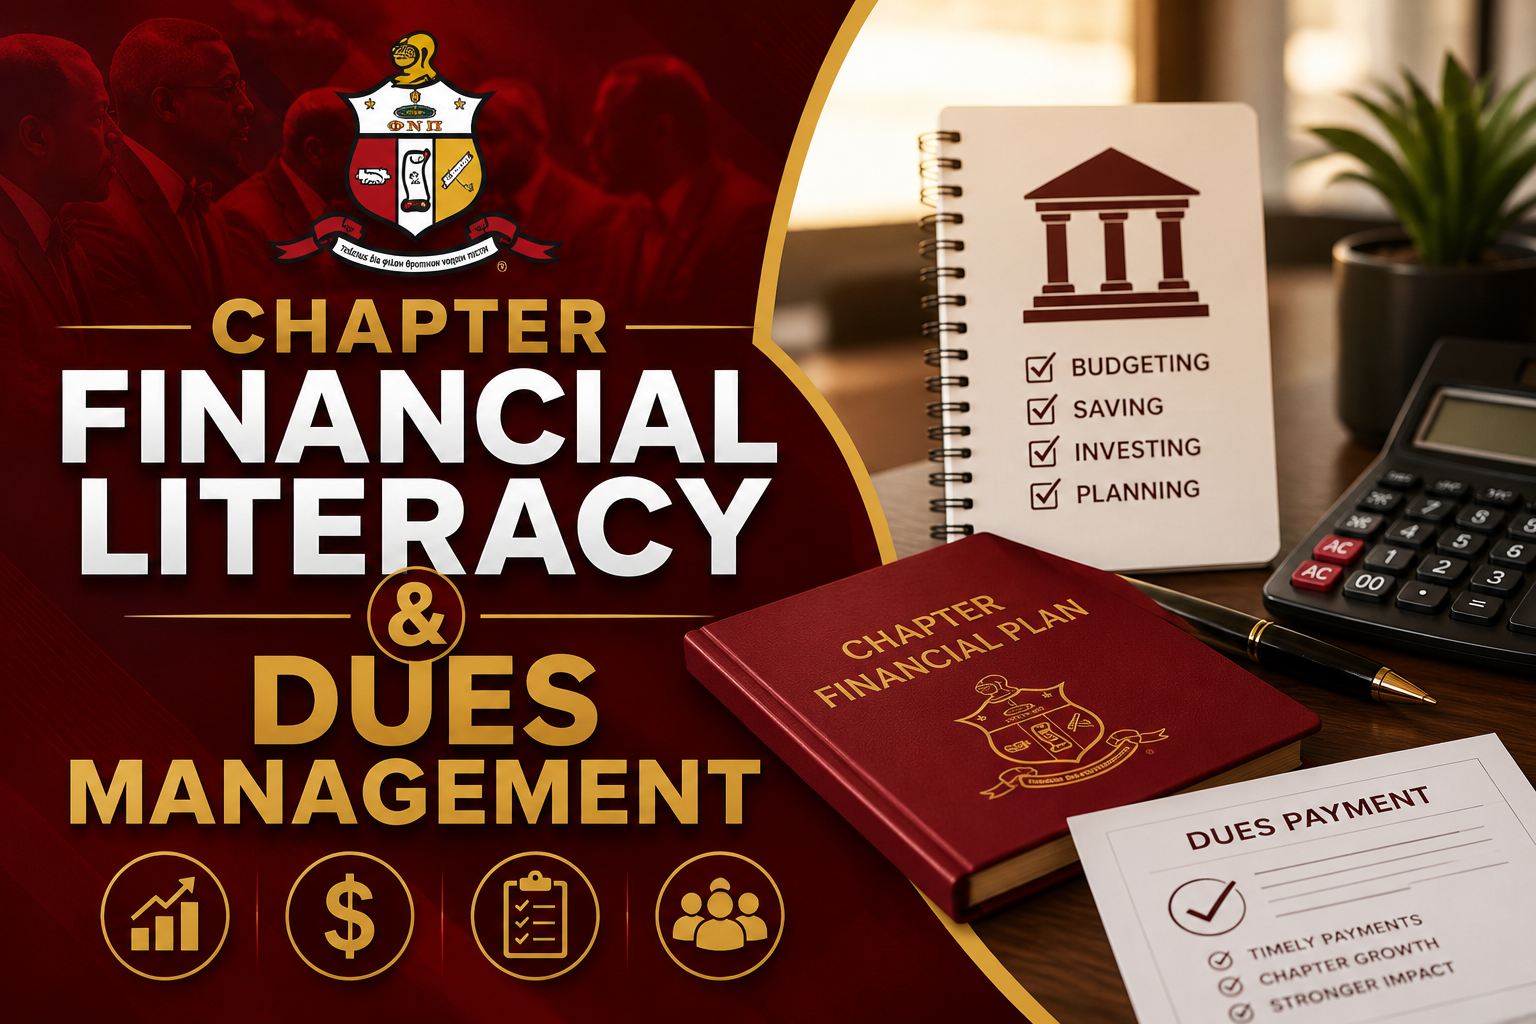
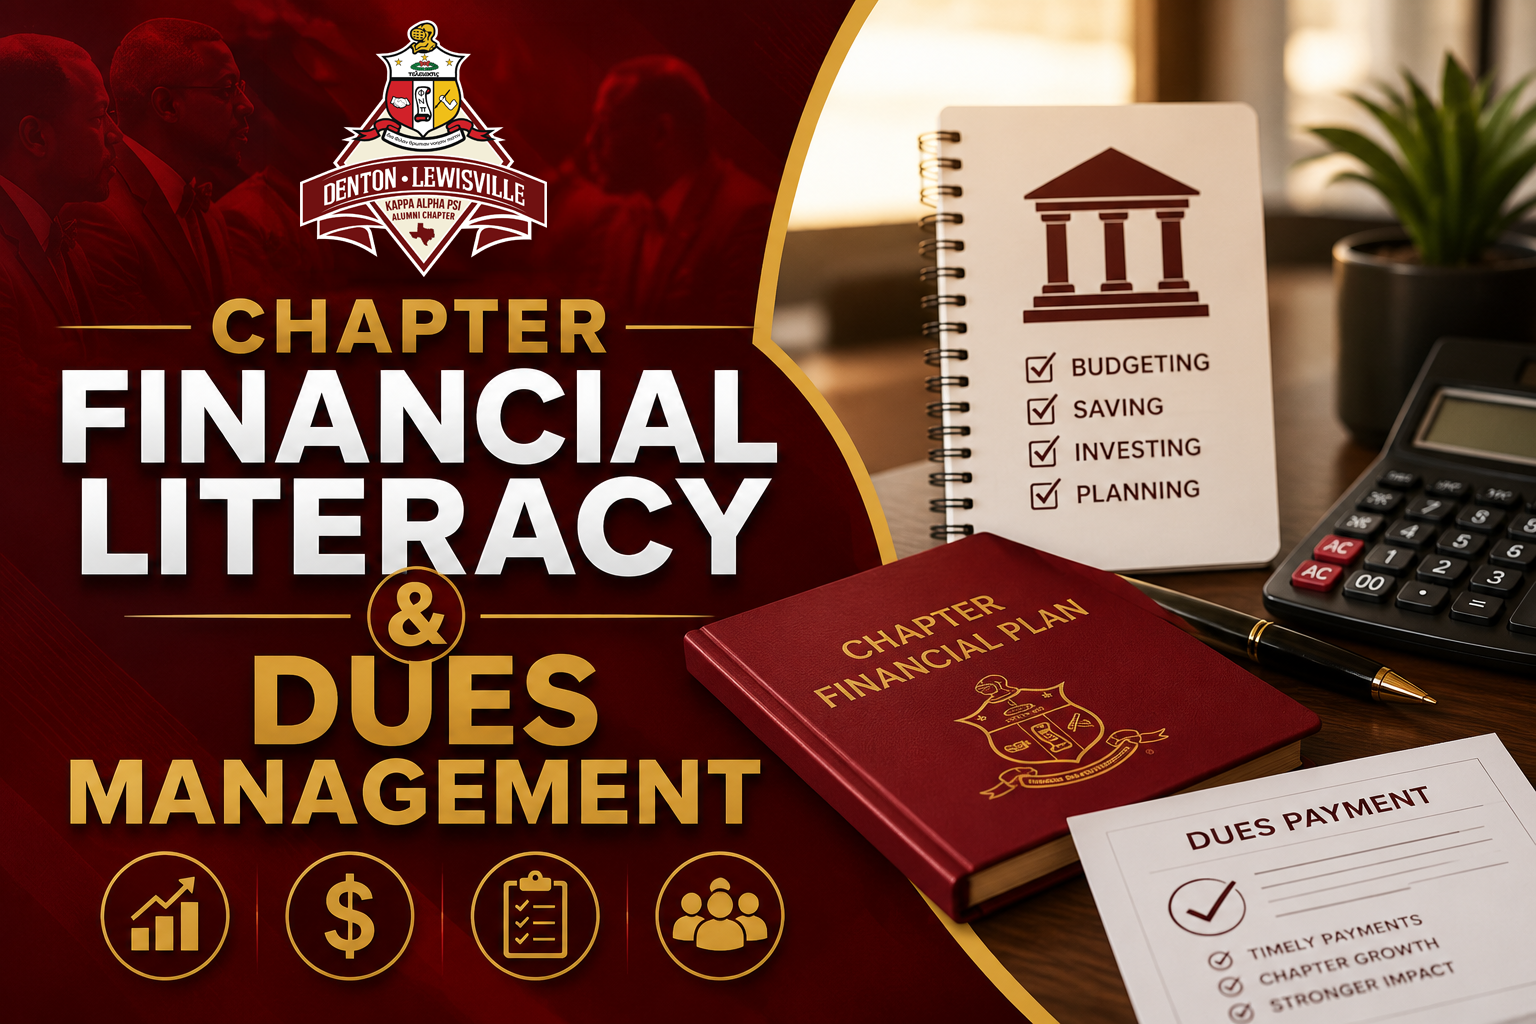
images

Changed region(s): [[0.1562, 0.0, 0.375, 0.2812]]

diff --git a/portal/training.html b/portal/training.html
@@ -374,9 +374,7 @@ body { font-family: 'Archivo', sans-serif; background: #f0ece6; color: #1a1a1a; 
     </div>
     <div class="course-card" data-filter="all">
       <div class="course-thumb">
-        <div class="thumb-icon">
-          <svg viewBox="0 0 24 24" fill="none" stroke="#c69a3f" stroke-width="1.6" stroke-linecap="round" stroke-linejoin="round"><path d="M4 19.5A2.5 2.5 0 0 1 6.5 17H20"/><path d="M6.5 2H20v20H6.5A2.5 2.5 0 0 1 4 19.5v-15A2.5 2.5 0 0 1 6.5 2z"/></svg>
-        </div>
+        <img src="/img/thumbnail_constitution_statutes.png" alt="Understanding the Constitutions and Statutes">
       </div>
       <div class="progress-bar"><div class="progress-fill" style="width:0%"></div></div>
       <div class="course-body">
@@ -388,9 +386,7 @@ body { font-family: 'Archivo', sans-serif; background: #f0ece6; color: #1a1a1a; 
     </div>
     <div class="course-card" data-filter="all">
       <div class="course-thumb">
-        <div class="thumb-icon">
-          <svg viewBox="0 0 24 24" fill="none" stroke="#c69a3f" stroke-width="1.6" stroke-linecap="round" stroke-linejoin="round"><path d="M14 2H6a2 2 0 0 0-2 2v16a2 2 0 0 0 2 2h12a2 2 0 0 0 2-2V8z"/><polyline points="14 2 14 8 20 8"/><line x1="9" y1="13" x2="15" y2="13"/><line x1="9" y1="17" x2="13" y2="17"/></svg>
-        </div>
+        <img src="/img/thumbnail_chapter_bylaws.png" alt="Chapter Bylaws">
       </div>
       <div class="progress-bar"><div class="progress-fill" style="width:0%"></div></div>
       <div class="course-body">
@@ -402,9 +398,7 @@ body { font-family: 'Archivo', sans-serif; background: #f0ece6; color: #1a1a1a; 
     </div>
     <div class="course-card" data-filter="all">
       <div class="course-thumb">
-        <div class="thumb-icon">
-          <svg viewBox="0 0 24 24" fill="none" stroke="#c69a3f" stroke-width="1.6" stroke-linecap="round" stroke-linejoin="round"><rect x="3" y="3" width="7" height="7"/><rect x="14" y="3" width="7" height="7"/><rect x="3" y="14" width="7" height="7"/><rect x="14" y="14" width="7" height="7"/></svg>
-        </div>
+        <img src="/img/thumbnail_committee_directorates.png" alt="Understanding Chapter Committees and Directorates">
       </div>
       <div class="progress-bar"><div class="progress-fill" style="width:0%"></div></div>
       <div class="course-body">